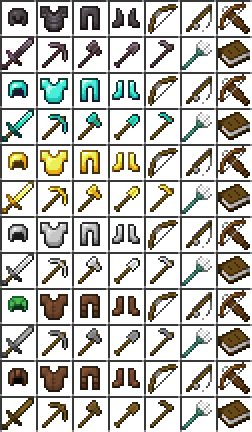
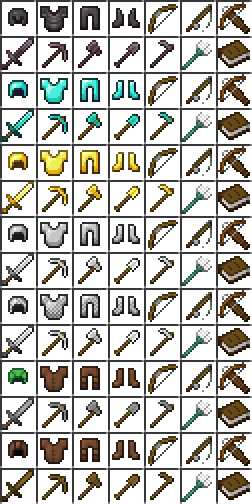
Added chainmail material option

diff --git a/src/enchcracker/EnchCrackerWindow.java b/src/enchcracker/EnchCrackerWindow.java
@@ -543,6 +543,10 @@ public class EnchCrackerWindow extends StyledFrameMinecraft {
 				{IRON_SWORD, IRON_PICKAXE, IRON_AXE, IRON_SHOVEL, IRON_HOE, TRIDENT, BOOK}
 			},
 			{
+				{CHAINMAIL_HELMET, CHAINMAIL_CHESTPLATE, CHAINMAIL_LEGGINGS, CHAINMAIL_BOOTS, BOW, FISHING_ROD, CROSSBOW},
+				{IRON_SWORD, IRON_PICKAXE, IRON_AXE, IRON_SHOVEL, IRON_HOE, TRIDENT, BOOK}
+			},
+			{
 				{TURTLE_HELMET, LEATHER_CHESTPLATE, LEATHER_LEGGINGS, LEATHER_BOOTS, BOW, FISHING_ROD, CROSSBOW},
 				{STONE_SWORD, STONE_PICKAXE, STONE_AXE, STONE_SHOVEL, STONE_HOE, TRIDENT, BOOK}
 			},
@@ -551,7 +555,7 @@ public class EnchCrackerWindow extends StyledFrameMinecraft {
 				{WOODEN_SWORD, WOODEN_PICKAXE, WOODEN_AXE, WOODEN_SHOVEL, WOODEN_HOE, TRIDENT, BOOK}
 			}
 		};
-		itemPicker = new ImagePanel("ench_items", 6) {
+		itemPicker = new ImagePanel("ench_items", 7) {
 			private final Color good = new Color(0, 80, 0), bad = new Color(139, 139, 139);
 			@Override
 			public void paint(Graphics g) {
@@ -630,7 +634,7 @@ public class EnchCrackerWindow extends StyledFrameMinecraft {
 		});
 		itemPicker.setToolTipText(translate("enchCalc.item.tooltip"));
 
-		ImagePanel matPicker = new ImagePanel("ench_mats", 6);
+		ImagePanel matPicker = new ImagePanel("ench_mats", 7);
 		matPicker.setBounds(298,42,matPicker.getSize().width,matPicker.getSize().height);
 		manipPane.add(matPicker);
 		matPicker.addMouseListener(new MouseListener() {

diff --git a/src/enchcracker/Materials.java b/src/enchcracker/Materials.java
@@ -6,8 +6,9 @@ public class Materials {
     public static final int DIAMOND = 1;
     public static final int GOLD = 2;
     public static final int IRON = 3;
-    public static final int STONE = 4;
-    public static final int LEATHER = 5;
+    public static final int CHAIN = 4;
+    public static final int STONE = 5;
+    public static final int LEATHER = 6;
 
     public static Versions getIntroducedVersion(int material) {
         if (material == NETHERITE)
